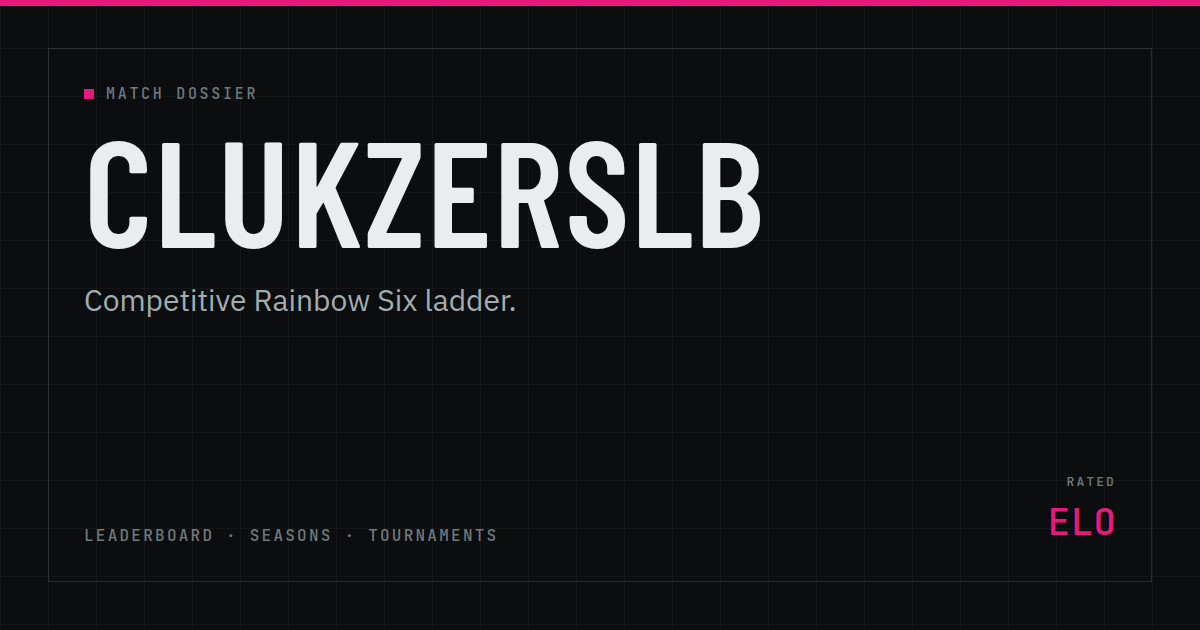
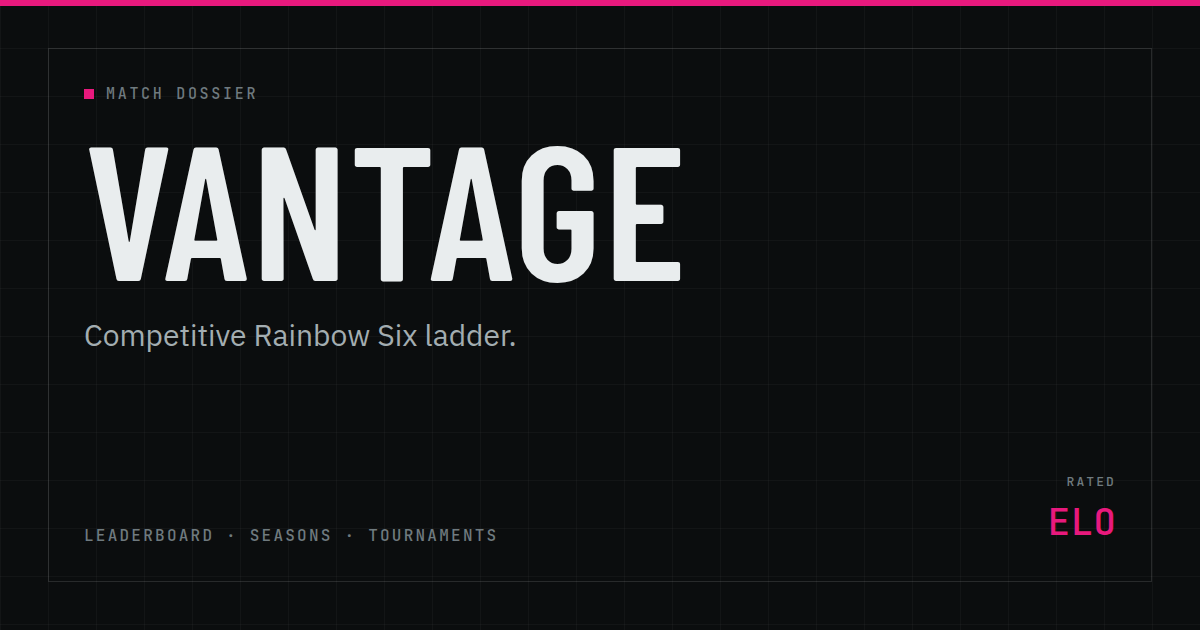
feat: rename the product to Vantage
- SITE_NAME defaults to Vantage (env files updated)
- FastAPI docs title follows the configured name
- README, product doc, OG card and README screenshot updated
- No schema or data changes; the rename is a single config value

Changed region(s): [[0.0617, 0.2111, 0.6475, 0.573]]

diff --git a/main.py b/main.py
@@ -80,7 +80,7 @@ async def lifespan(app: FastAPI):
     scheduler.shutdown(wait=False)
 
 
-app = FastAPI(title="Rainbow Leaderboard", lifespan=lifespan)
+app = FastAPI(title=settings.site_name, lifespan=lifespan)
 templates = Jinja2Templates(directory=Path(__file__).parent / "app" / "templates")
 templates.env.globals["site_name"] = settings.site_name
 templates.env.globals["public_base_url"] = settings.public_base_url

diff --git a/app/config.py b/app/config.py
@@ -18,7 +18,7 @@ class Settings(BaseSettings):
         "4v4": 0.6,
         "5v5": 0.5,
     }
-    site_name: str = "clukzersLB"
+    site_name: str = "Vantage"
     cookie_secure: bool = False
     public_base_url: str = ""
     dev_login_discord_id: str = ""

diff --git a/PRODUCT.md b/PRODUCT.md
@@ -2,9 +2,9 @@
 
 ## What this is
 
-A community leaderboard and match tracker for Rainbow Six, with ELO ratings
-across 1v1 through 5v5. Players report results, admins curate the roster,
-seasons and tournaments, and everyone can read the ladder.
+Vantage is a community leaderboard and match tracker for Rainbow Six, with ELO
+ratings across 1v1 through 5v5. Players report results, admins curate the
+roster, seasons and tournaments, and everyone can read the ladder.
 
 Public surfaces:
 
@@ -53,7 +53,7 @@ colour rather than decoration.
 - Tailwind 3 with a committed build (`app/static/css/tailwind.min.css`);
   `npm run tw:build` regenerates it.
 - Dark and light themes, both designed; preference persists.
-- The site name is configuration (`SITE_NAME`, default `clukzersLB`) because a
+- The site name is configuration (`SITE_NAME`, default `Vantage`) because a
   rename is planned.
 - Match results can be announced to an optional Discord webhook.
 - Admins are verified against the database/allowlist on page routes as well as

diff --git a/README.md b/README.md
@@ -1,4 +1,4 @@
-# Rainbow Leaderboard 🏆
+# Vantage 🏆
 
 > **Your community's ranked ladder — up and running in 2 commands.**
 
@@ -55,7 +55,7 @@ Copy `.env.example` to `.env` and fill in your details:
 ```env
 DATABASE_URL=postgresql+asyncpg://rainbow:rainbow@db:5432/rainbow
 SECRET_KEY=your-secret-key-here
-SITE_NAME=clukzersLB
+SITE_NAME=Vantage
 COOKIE_SECURE=false          # true behind HTTPS
 PUBLIC_BASE_URL=http://localhost:8090
 DISCORD_CLIENT_ID=your-discord-client-id
